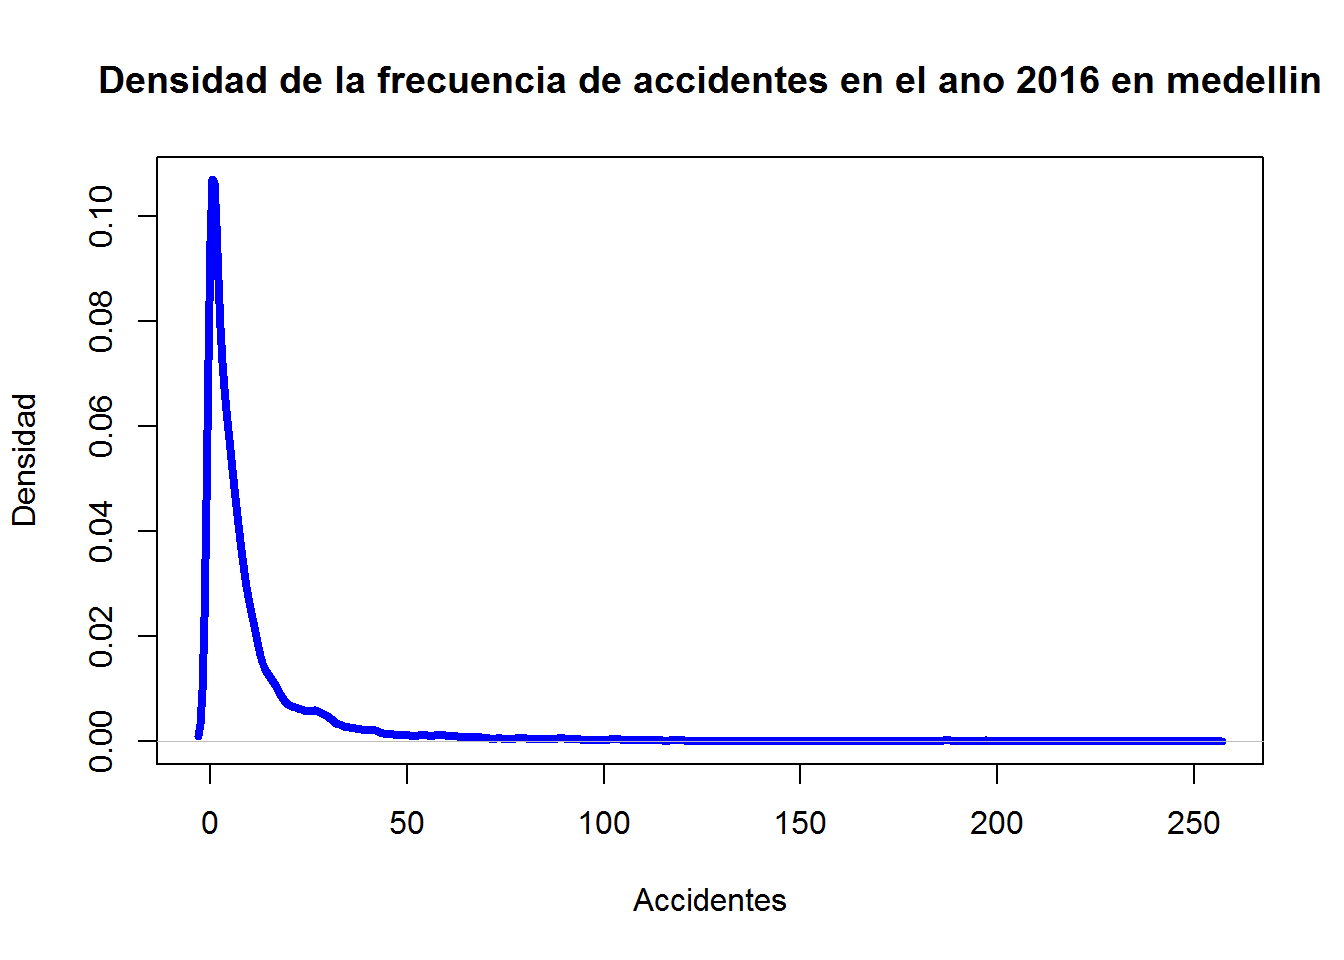
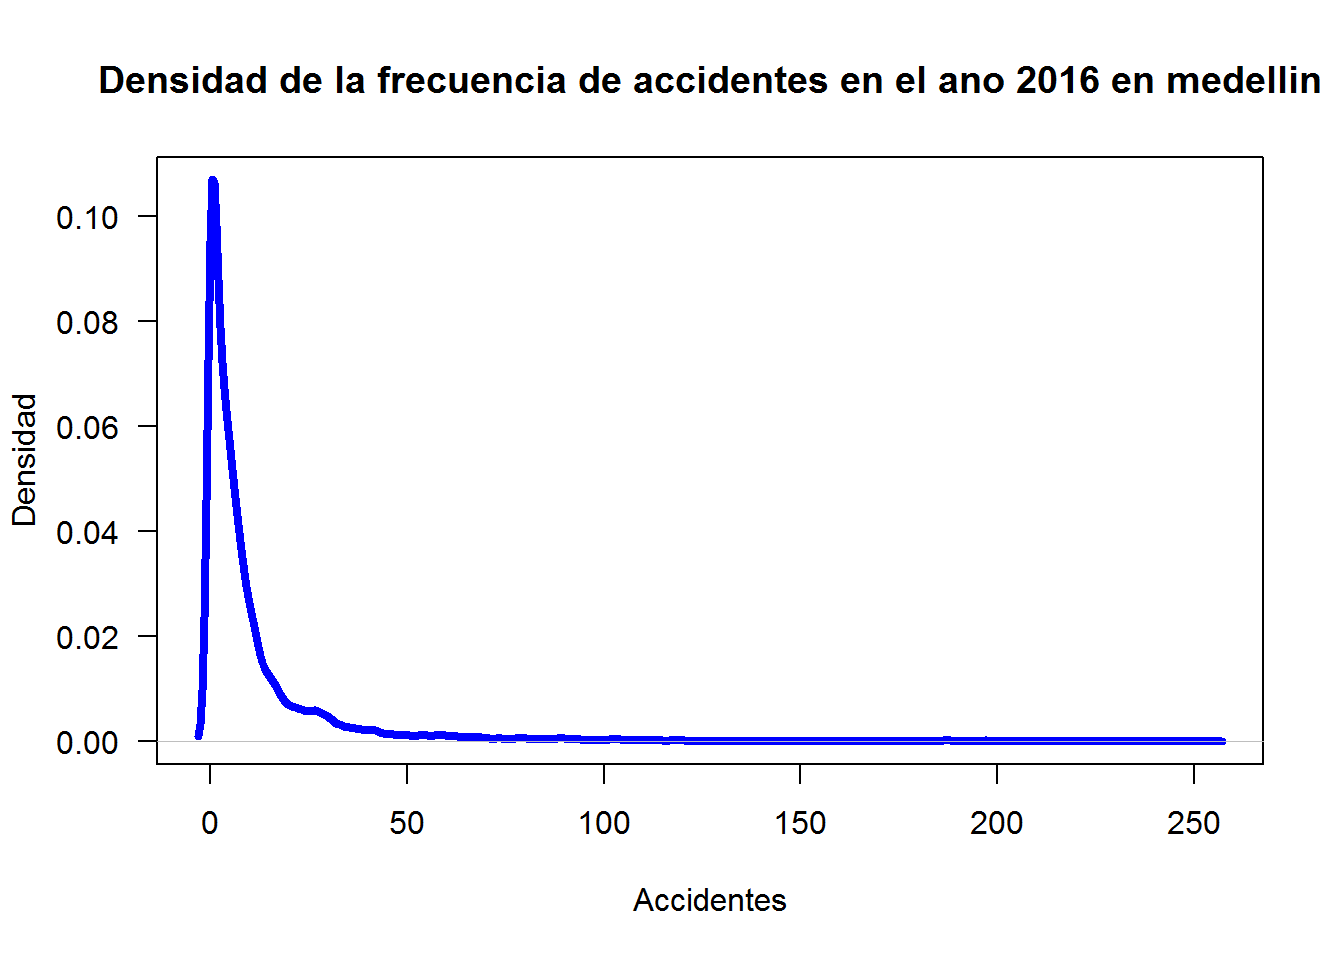
organice graficas con "las"

diff --git a/Densidades.html b/Densidades.html
@@ -212,7 +212,7 @@ var2 &lt;- rnorm(40,mean=3,sd=1)
 
 
 plot(density(var1),xlim=c(min(var1),max(var2)),ylim=c(0,0.8),lty=2,lwd=2,col=&quot;darkblue&quot;,main=&quot;Funciones 
-de densidad&quot;)
+de densidad&quot;, las= 1)
 lines(density(var2),lwd=2,col=&quot;darkred&quot;)</code></pre>
 <p><img src="Densidades_files/figure-html/unnamed-chunk-1-1.png" width="672" /></p>
 </div>
@@ -235,7 +235,7 @@ head(datos)</code></pre>
 ## 5                0
 ## 6              202</code></pre>
 <pre class="r"><code>accidentes&lt;-datos$NUMERO.ACCIDENTE
-plot(density(x=accidentes), main=&quot;Densidad de la frecuencia de accidentes en el ano 2016 en medellin&quot;, xlab=&quot;Accidentes&quot;, ylab=&quot;Densidad&quot;, lwd=4, col=&quot;blue&quot;)</code></pre>
+plot(density(x=accidentes), main=&quot;Densidad de la frecuencia de accidentes en el ano 2016 en medellin&quot;, xlab=&quot;Accidentes&quot;, ylab=&quot;Densidad&quot;, lwd=4, col=&quot;blue&quot;, las=1)</code></pre>
 <p><img src="Densidades_files/figure-html/unnamed-chunk-3-1.png" width="672" /></p>
 </div>
 
